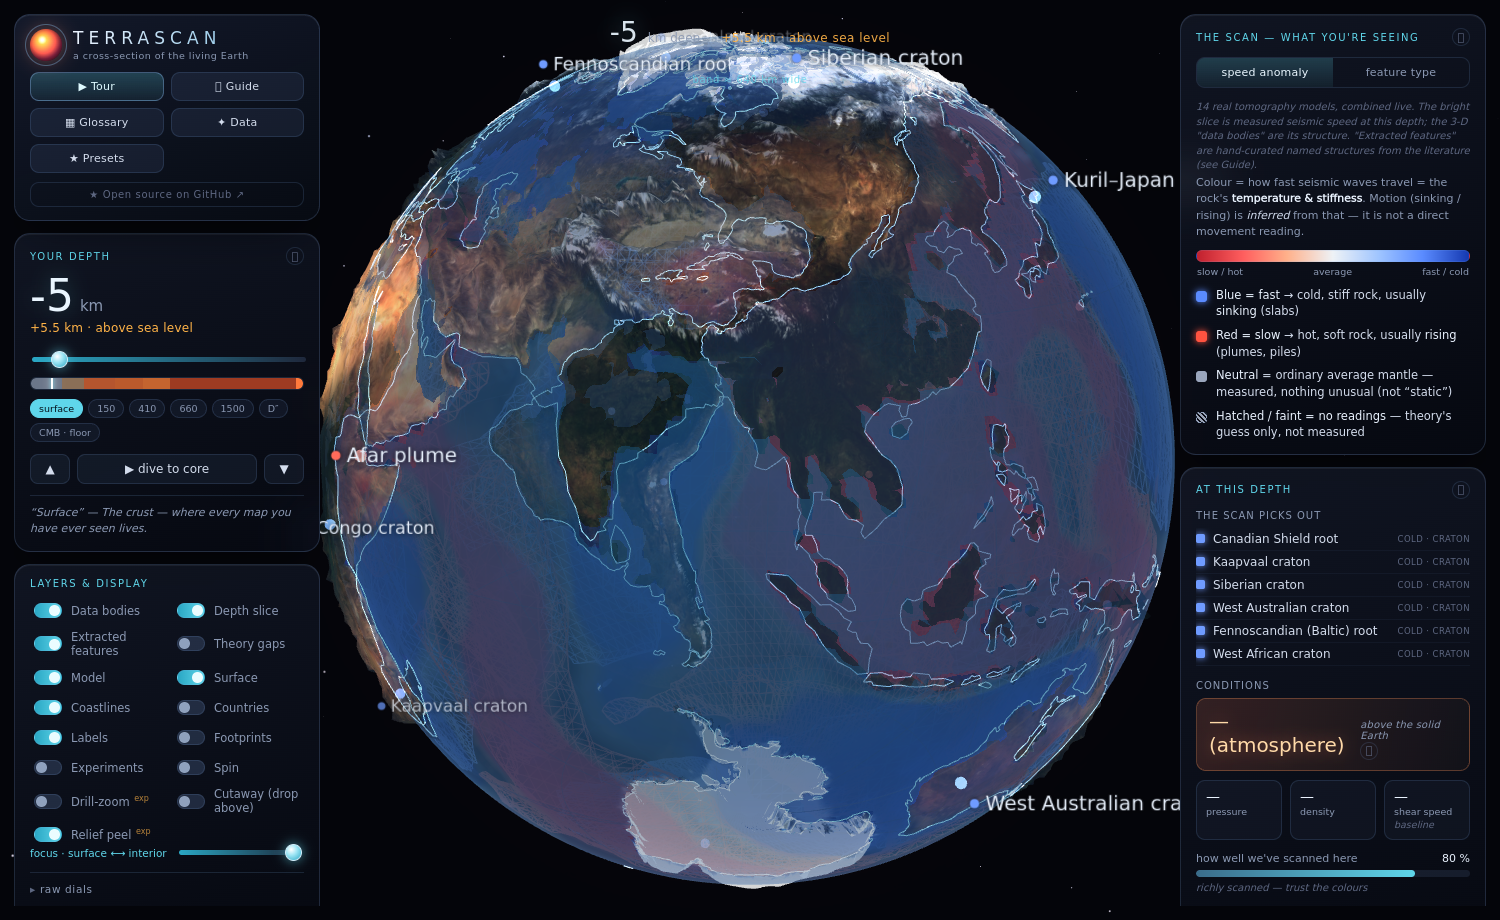
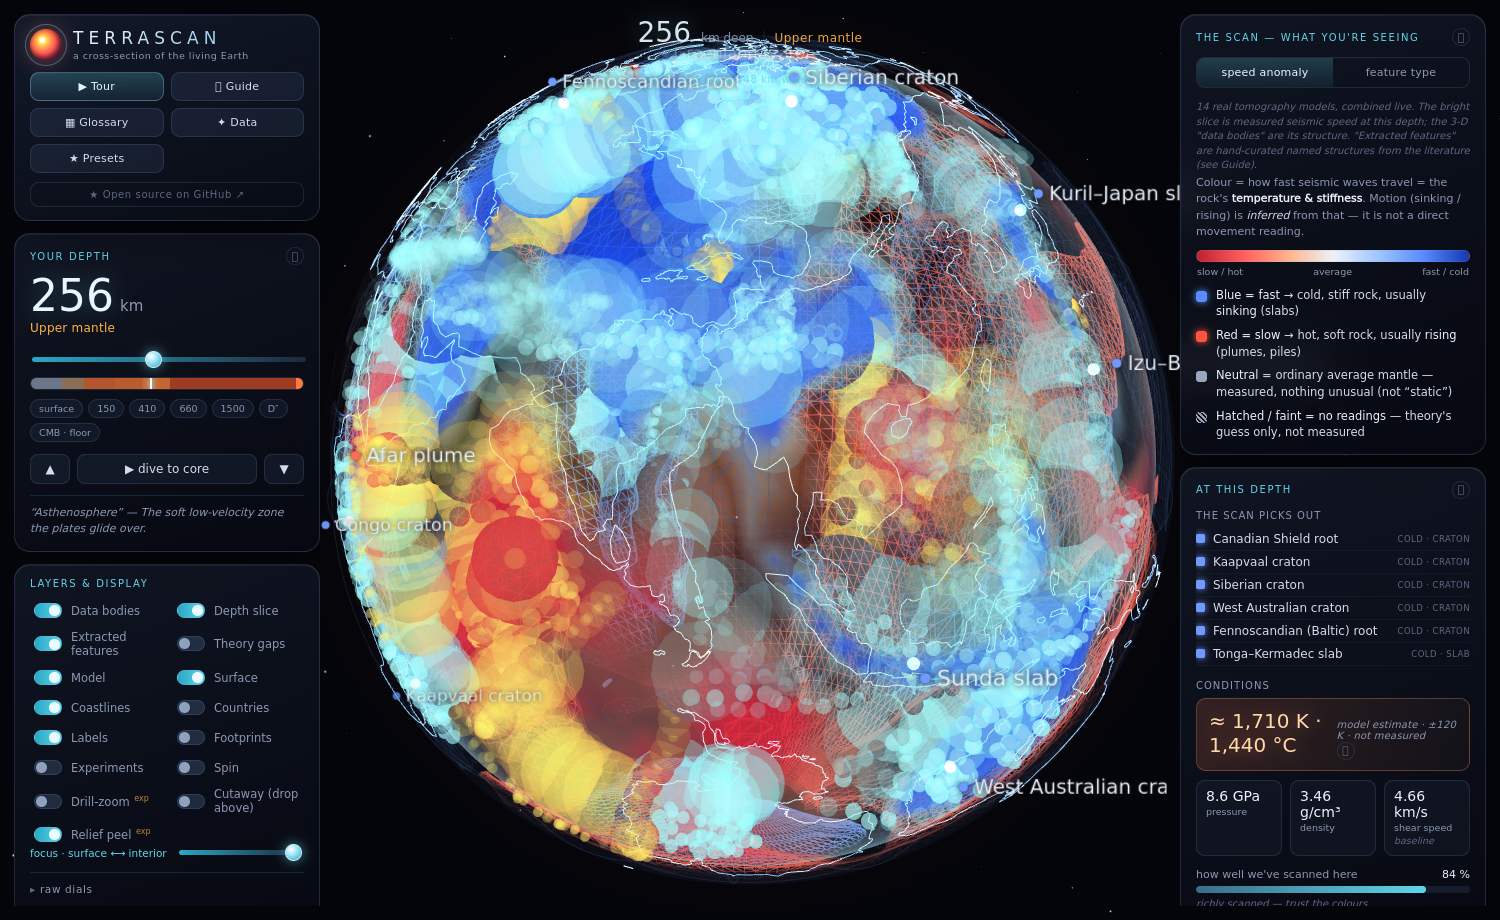
Extracted features: solid visible volumes + focus isolates only the focused footprint
- Render features as SOLID normal-blended volumes (depthWrite, no back-bleed) instead of
  additive glow, and lift them ABOVE the relief surface (renderOrder 6.5) so they're
  clearly visible at the surface without cranking glow. Floored survey-link so they never
  vanish entirely.
- Focus/extract now truly isolates a structure: only the focused body + ONLY its footprint;
  the slice, data bodies, coastlines, graticule, markers and other footprints are hidden
  (restored on exit).

diff --git a/js/structures.js b/js/structures.js
@@ -64,11 +64,11 @@ const VERT=`precision highp float;
     float prox = 1.0 - smoothstep(0.0, uFocus, abs(aDepth-uCurDepth));
     float sel = (uFocusing>0.5 && abs(aFeature-uSelFeature)<0.5) ? 1.0 : 0.0;
     float hov = (abs(aFeature-uHoverFeature)<0.5) ? 1.0 : 0.0;
-    vHi = mix(0.26 + 0.80*prox, 1.10, sel) + hov*0.4;
+    vHi = mix(0.60 + 0.40*prox, 1.20, sel) + hov*0.4;
     vColor = mix(aColorA, aColorB, uMode);
     float vis = uFocusing<0.5 ? 1.0 : (sel>0.5 ? 1.4 : 0.05);
     vA = aAlpha*vis*(1.0 + hov*0.45);
-    vec3 wp = aOffset + position*aScale*uSize*(1.7+0.4*prox + hov*0.3);   // big, overlapping -> merge
+    vec3 wp = aOffset + position*aScale*uSize*(2.0+0.4*prox + hov*0.3);   // big, overlapping -> merge
     vec4 mv = modelViewMatrix*vec4(wp,1.0);
     vN = normalize(mat3(modelViewMatrix)*normalize(position));            // blobs are unrotated unit spheres
     vView = normalize(-mv.xyz);
@@ -81,9 +81,10 @@ const FRAG=`precision highp float;
   void main(){
     if(uClip>0.5 && vAD < uCurDepth - 0.001) discard;
     float ndv = abs(dot(normalize(vN), normalize(vView)));
-    float puff = pow(ndv, 1.3);                  // soft radial falloff -> no hard sphere edge
-    float link = mix(1.0, vSup, uDataLink);      // survey link: fade toward measured support
-    gl_FragColor = vec4(vColor*vHi*puff*vA*uOpacity*uGlow*link, 1.0);
+    float link = max(0.35, mix(1.0, vSup, uDataLink));      // survey link, floored so always visible
+    vec3 col = vColor*(0.72+0.28*ndv)*uGlow;
+    float a = clamp(vA*vHi*uOpacity*link*0.95, 0.0, 0.96);  // SOLID volume via alpha, not additive glow
+    gl_FragColor = vec4(col, a);
   }`;
 
 // 2D convex hull (monotone chain)
@@ -159,9 +160,9 @@ export function makeStructures(){
     const stride=Math.max(2, Math.floor(det.length/12));
     for(let i=0;i<det.length;i++){
       const [lat,lon,depth,scale]=det[i];
-      add(lat,lon,depth,scale,0.30,fi,aCol,bCol);                 // raw detail (soft, low alpha to merge)
-      if(i%stride===0){                                           // sparse big puff -> fills the volume
-        const p=add(lat,lon,depth,bigR,0.18,fi,aCol,bCol);
+      add(lat,lon,depth,scale,0.9,fi,aCol,bCol);                  // raw detail (solid)
+      if(i%stride===0){                                           // sparse big blob -> fills the volume
+        const p=add(lat,lon,depth,bigR,0.7,fi,aCol,bCol);
         const pr=new THREE.Mesh(proxyGeo,proxyMat); pr.position.copy(p); pr.scale.setScalar(bigR*1.15);
         pr.userData={feature:f}; pr.updateMatrixWorld(); pickProxies.push(pr);
       }
@@ -186,13 +187,14 @@ export function makeStructures(){
   g.setAttribute('aSupport',new THREE.InstancedBufferAttribute(new Float32Array(scl.length).fill(1),1));
   g.instanceCount=scl.length;
 
-  const mat=new THREE.RawShaderMaterial({ transparent:true, depthTest:false, depthWrite:false,
-    blending:THREE.AdditiveBlending, vertexShader:VERT, fragmentShader:FRAG,
-    uniforms:{ uCurDepth:{value:0}, uFocus:{value:0.03}, uMode:{value:0}, uOpacity:{value:0.85},
-      uGlow:{value:0.7}, uSize:{value:0.8}, uDataLink:{value:0},
+  const mat=new THREE.RawShaderMaterial({ transparent:true, depthTest:true, depthWrite:true,
+    side:THREE.FrontSide, blending:THREE.NormalBlending, vertexShader:VERT, fragmentShader:FRAG,
+    uniforms:{ uCurDepth:{value:0}, uFocus:{value:0.03}, uMode:{value:0}, uOpacity:{value:0.95},
+      uGlow:{value:1.0}, uSize:{value:0.85}, uDataLink:{value:0},
       uSelFeature:{value:-1}, uFocusing:{value:0}, uHoverFeature:{value:-1}, uClip:{value:0} } });
 
-  const mesh=new THREE.Mesh(g,mat); mesh.frustumCulled=false; mesh.renderOrder=4;
+  // draw ABOVE the relief surface (renderOrder 6) so the features aren't hidden at the surface
+  const mesh=new THREE.Mesh(g,mat); mesh.frustumCulled=false; mesh.renderOrder=6.5;
   const foot=buildFootprints(footData);
 
   return {

diff --git a/js/main.js b/js/main.js
@@ -518,9 +518,12 @@ function enterFocus(f){
   const inf=structures.infoFor(f);
   document.body.classList.add('focusing');
   state.focused=f; structures.focus(f); structures.setHover(null);
-  structures.footGroup.visible=true; structures.setFootSolo(f);   // light only this body's surface footprint
+  structures.footGroup.visible=true; structures.setFootSolo(f);   // ONLY this body's footprint
   earthWire.visible=true; controls.autoRotate=false;
-  scan.mesh.visible=false; markerGroup.visible=false; relief.setOpacity(0.10); // declutter around the isolated body
+  // isolate the body: hide everything else (slice, data bodies, coastlines, graticule, markers)
+  scan.mesh.visible=false; markerGroup.visible=false; relief.setOpacity(0.10);
+  if(dataBodies) dataBodies.group.visible=false;
+  coastObj&&(coastObj.visible=false); gratObj&&(gratObj.visible=false);
   savedCam=camera.position.clone(); savedTarget=controls.target.clone();
   const c=inf.center, dist=Math.max(0.55, Math.min(3.2, inf.radius*5.0));
   const dir=camera.position.clone().sub(controls.target).normalize();
@@ -533,6 +536,8 @@ function exitFocus(){
   structures.focus(null); structures.setFootHover(null); structures.footGroup.visible=state.showFoot;
   earthWire.visible=false; ui.focusPanel(null);
   scan.mesh.visible=state.showScan; markerGroup.visible=state.showMarkers; setReliefOpacity();
+  if(dataBodies) dataBodies.group.visible=state.showBodies;
+  coastObj&&(coastObj.visible=state.showCoast); gratObj&&(gratObj.visible=state.showCoast);
   glideTarget=new THREE.Vector3(0,0,0);                 // the globe pivot is always the origin
   glideCam=savedCam?savedCam.clone():new THREE.Vector3(0.2,0.9,3.0);
   state.focused=null; controls.autoRotate=state.spin;